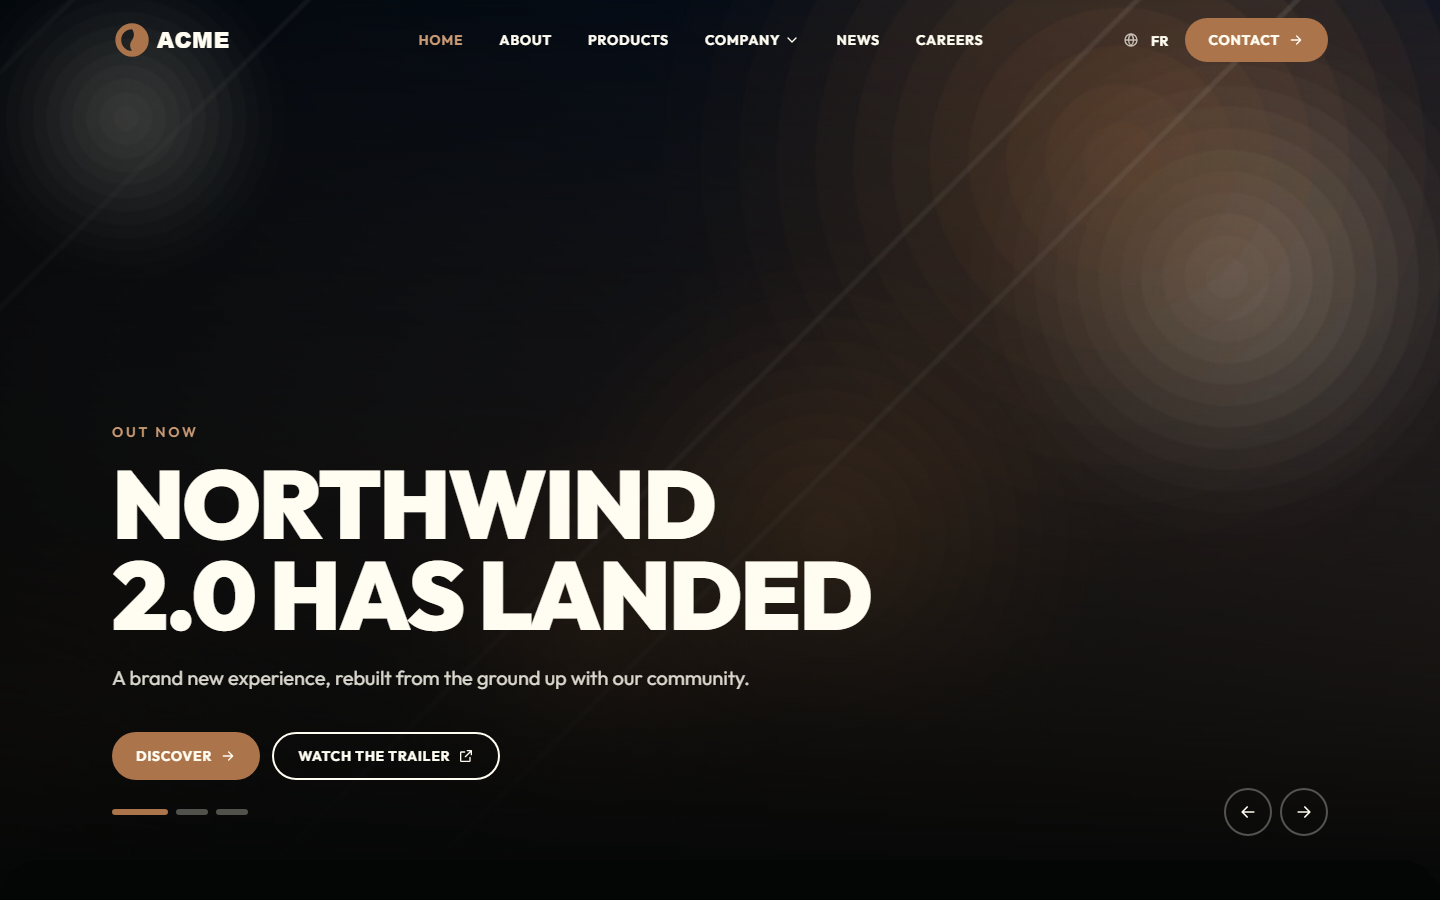
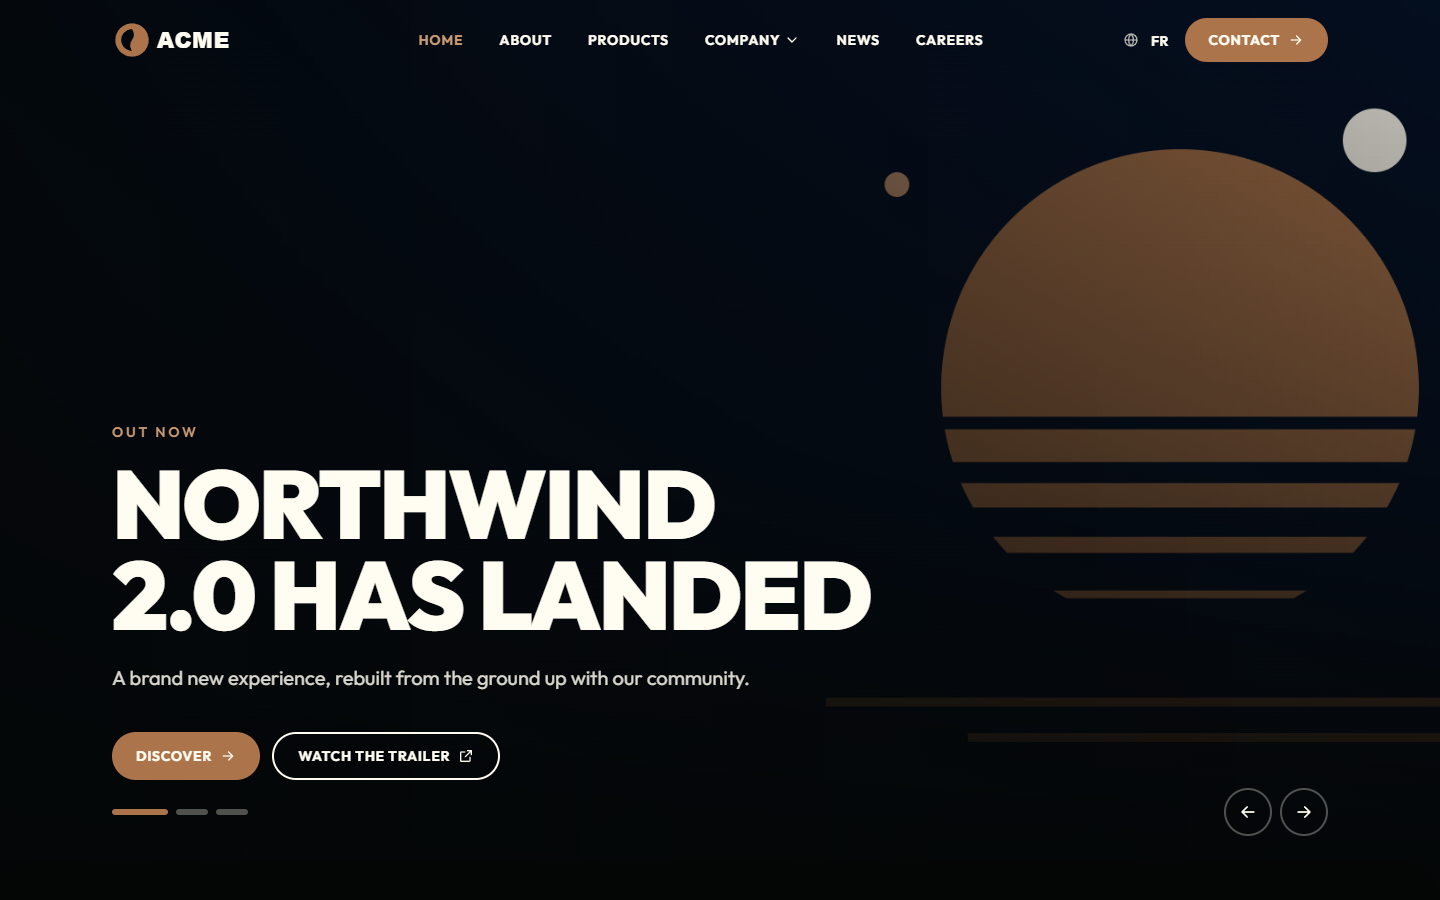
docs(demo): replace halo visuals with flat geometric ones (#2)

Changed region(s): [[0.375, 0.0, 1.0, 0.7156], [0.0312, 0.0311, 0.1562, 0.2489], [0.75, 0.6533, 0.9062, 0.6844]]

diff --git a/demo/pages/index.md b/demo/pages/index.md
@@ -9,20 +9,20 @@ blocks:
       - kicker: Out now
         title: Northwind 2.0 has landed
         text: A brand new experience, rebuilt from the ground up with our community.
-        image: images/hero-1.jpg
+        image: images/hero-1.png
         buttons:
           - {label: Discover, url: /products/northwind/}
           - {label: Watch the trailer, url: 'https://www.youtube.com/', style: outline}
       - kicker: Coming soon
         title: Summit, the next big climb
         text: Join the early access program and shape what comes next.
-        image: images/hero-2.jpg
+        image: images/hero-2.png
         buttons:
           - {label: Learn more, url: /products/summit/}
       - kicker: Company
         title: A family of creators
         text: Ten studios, one shared passion for great craft.
-        image: images/hero-3.jpg
+        image: images/hero-3.png
         buttons:
           - {label: About us, url: /about/, style: light}
   - type: cards
@@ -55,7 +55,7 @@ blocks:
       We believe the best products come from **small, empowered teams** who love what they do.
 
       Our group gives each studio the freedom to create, and the support to grow.
-    image: images/about.jpg
+    image: images/about.png
     buttons: {label: Meet us, url: /about/}
   - type: news
     kicker: Latest
@@ -63,7 +63,7 @@ blocks:
     section: news
     limit: 3
   - type: cta
-    image: images/careers.jpg
+    image: images/careers.png
     kicker: Careers
     title: Join the crew
     text: We are always looking for curious, passionate people to join our studios.

diff --git a/demo/pages/index.fr.md b/demo/pages/index.fr.md
@@ -8,13 +8,13 @@ blocks:
       - kicker: Disponible
         title: Northwind 2.0 est arrivé
         text: Une toute nouvelle expérience, reconstruite avec notre communauté.
-        image: images/hero-1.jpg
+        image: images/hero-1.png
         buttons:
           - {label: Découvrir, url: /products/northwind/}
       - kicker: Bientôt
         title: Summit, la prochaine ascension
         text: Rejoignez l'accès anticipé et façonnez la suite.
-        image: images/hero-2.jpg
+        image: images/hero-2.png
         buttons:
           - {label: En savoir plus, url: /products/summit/}
   - type: cards
@@ -27,13 +27,13 @@ blocks:
     title: Dites bonjour à la famille
     text: |
       Nous pensons que les meilleurs produits naissent de **petites équipes autonomes** qui aiment ce qu'elles font.
-    image: images/about.jpg
+    image: images/about.png
     buttons: {label: Nous rencontrer, url: /about/}
   - type: news
     kicker: Récemment
     title: Actualités
   - type: cta
-    image: images/careers.jpg
+    image: images/careers.png
     kicker: Carrières
     title: Rejoignez l'équipe
     buttons:

diff --git a/demo/pages/careers.md b/demo/pages/careers.md
@@ -2,7 +2,7 @@
 title: Careers
 kicker: Join the crew
 description: Grow with passionate people, in studios all around the world.
-image: images/careers.jpg
+image: images/careers.png
 blocks:
   - type: features
     theme: cream
@@ -18,9 +18,9 @@ blocks:
     columns: 3
     ratio: landscape
     items:
-      - {title: Senior Gameplay Programmer, label: Stockholm, image: images/product-1.jpg, url: /contact/}
-      - {title: 3D Environment Artist, label: Paris, image: images/product-2.jpg, url: /contact/}
-      - {title: Community Manager, label: Remote, image: images/product-3.jpg, url: /contact/}
+      - {title: Senior Gameplay Programmer, label: Stockholm, image: images/product-1.png, url: /contact/}
+      - {title: 3D Environment Artist, label: Paris, image: images/product-2.png, url: /contact/}
+      - {title: Community Manager, label: Remote, image: images/product-3.png, url: /contact/}
   - type: cta
     title: No position for you?
     text: Send us a spontaneous application, we would love to hear from you.

diff --git a/demo/pages/news/northwind-2-0-is-out.md b/demo/pages/news/northwind-2-0-is-out.md
@@ -2,7 +2,7 @@
 title: Northwind 2.0 is out now
 date: 2026-09-24
 description: The biggest update ever brings new seas, new ships and a brand new story.
-image: images/news-1.jpg
+image: images/news-1.png
 ---
 The biggest update ever brings new seas, new ships and a brand new story.
 
@@ -12,6 +12,6 @@ Lorem ipsum dolor sit amet, consectetur adipiscing elit. Integer nec odio. Praes
 
 Duis sagittis ipsum. Praesent mauris. Fusce nec tellus sed augue semper porta. Mauris massa. Vestibulum lacinia arcu eget nulla.
 
-![A picture](/images/news-1.jpg)
+![A picture](/images/news-1.png)
 
 Class aptent taciti sociosqu ad litora torquent per conubia nostra, per inceptos himenaeos.

diff --git a/demo/pages/news/annual-report-2026.md b/demo/pages/news/annual-report-2026.md
@@ -2,7 +2,7 @@
 title: Our 2026 annual report
 date: 2026-07-15
 description: A record year for the group, driven by our studios and our community.
-image: images/news-4.jpg
+image: images/news-4.png
 ---
 A record year for the group, driven by our studios and our community.
 
@@ -12,6 +12,6 @@ Lorem ipsum dolor sit amet, consectetur adipiscing elit. Integer nec odio. Praes
 
 Duis sagittis ipsum. Praesent mauris. Fusce nec tellus sed augue semper porta. Mauris massa. Vestibulum lacinia arcu eget nulla.
 
-![A picture](/images/news-4.jpg)
+![A picture](/images/news-4.png)
 
 Class aptent taciti sociosqu ad litora torquent per conubia nostra, per inceptos himenaeos.

diff --git a/demo/pages/news/summit-early-access.md b/demo/pages/news/summit-early-access.md
@@ -2,7 +2,7 @@
 title: Summit enters early access
 date: 2026-08-28
 description: Grab your rope and help us shape the future of Summit.
-image: images/news-3.jpg
+image: images/news-3.png
 ---
 Grab your rope and help us shape the future of Summit.
 
@@ -12,6 +12,6 @@ Lorem ipsum dolor sit amet, consectetur adipiscing elit. Integer nec odio. Praes
 
 Duis sagittis ipsum. Praesent mauris. Fusce nec tellus sed augue semper porta. Mauris massa. Vestibulum lacinia arcu eget nulla.
 
-![A picture](/images/news-3.jpg)
+![A picture](/images/news-3.png)
 
 Class aptent taciti sociosqu ad litora torquent per conubia nostra, per inceptos himenaeos.

diff --git a/demo/pages/news/welcome-maple-studio.md b/demo/pages/news/welcome-maple-studio.md
@@ -2,7 +2,7 @@
 title: Welcome to Maple Studio
 date: 2026-09-10
 description: A talented team from Montreal joins the family.
-image: images/news-2.jpg
+image: images/news-2.png
 ---
 A talented team from Montreal joins the family.
 
@@ -12,6 +12,6 @@ Lorem ipsum dolor sit amet, consectetur adipiscing elit. Integer nec odio. Praes
 
 Duis sagittis ipsum. Praesent mauris. Fusce nec tellus sed augue semper porta. Mauris massa. Vestibulum lacinia arcu eget nulla.
 
-![A picture](/images/news-2.jpg)
+![A picture](/images/news-2.png)
 
 Class aptent taciti sociosqu ad litora torquent per conubia nostra, per inceptos himenaeos.

diff --git a/demo/pages/about.md b/demo/pages/about.md
@@ -2,7 +2,7 @@
 title: About us
 kicker: The family
 description: A group of independent studios with a shared passion for great craft.
-image: images/team.jpg
+image: images/team.png
 blocks:
   - type: split
     kicker: Our story
@@ -11,7 +11,7 @@ blocks:
       Founded in a tiny office in 2010, Acme Group has grown into a family of ten studios and more than 600 people.
 
       We still share the same belief: **great products are made by happy teams**.
-    image: images/about.jpg
+    image: images/about.png
   - type: stats
     id: figures
     kicker: Key figures

diff --git a/demo/pages/about.fr.md b/demo/pages/about.fr.md
@@ -2,14 +2,14 @@
 title: À propos
 kicker: La famille
 description: Un groupe de studios indépendants unis par la passion du travail bien fait.
-image: images/team.jpg
+image: images/team.png
 blocks:
   - type: split
     kicker: Notre histoire
     title: Tout a commencé autour d'un café
     text: |
       Fondé en 2010 dans un minuscule bureau, Acme Group réunit aujourd'hui dix studios et plus de 600 personnes.
-    image: images/about.jpg
+    image: images/about.png
   - type: stats
     id: figures
     kicker: Chiffres clés

diff --git a/demo/pages/news/northwind-2-0-is-out.fr.md b/demo/pages/news/northwind-2-0-is-out.fr.md
@@ -2,7 +2,7 @@
 title: Northwind 2.0 est disponible
 date: 2026-09-24
 description: La plus grosse mise à jour apporte de nouvelles mers, de nouveaux navires et une nouvelle histoire.
-image: images/news-1.jpg
+image: images/news-1.png
 ---
 La plus grosse mise à jour apporte de nouvelles mers, de nouveaux navires et une nouvelle histoire.
 

diff --git a/demo/pages/news/annual-report-2026.fr.md b/demo/pages/news/annual-report-2026.fr.md
@@ -2,7 +2,7 @@
 title: Notre rapport annuel 2026
 date: 2026-07-15
 description: Une année record pour le groupe, portée par nos studios et notre communauté.
-image: images/news-4.jpg
+image: images/news-4.png
 ---
 Une année record pour le groupe, portée par nos studios et notre communauté.
 

diff --git a/demo/pages/products/summit.fr.md b/demo/pages/products/summit.fr.md
@@ -2,7 +2,7 @@
 title: Summit
 kicker: Accès anticipé
 description: Une expérience d'escalade coopérative jusqu'à quatre joueurs.
-image: images/product-2.jpg
+image: images/product-2.png
 weight: 20
 ---
 Summit est l'un de nos produits phares, conçu avec passion par une petite équipe.
